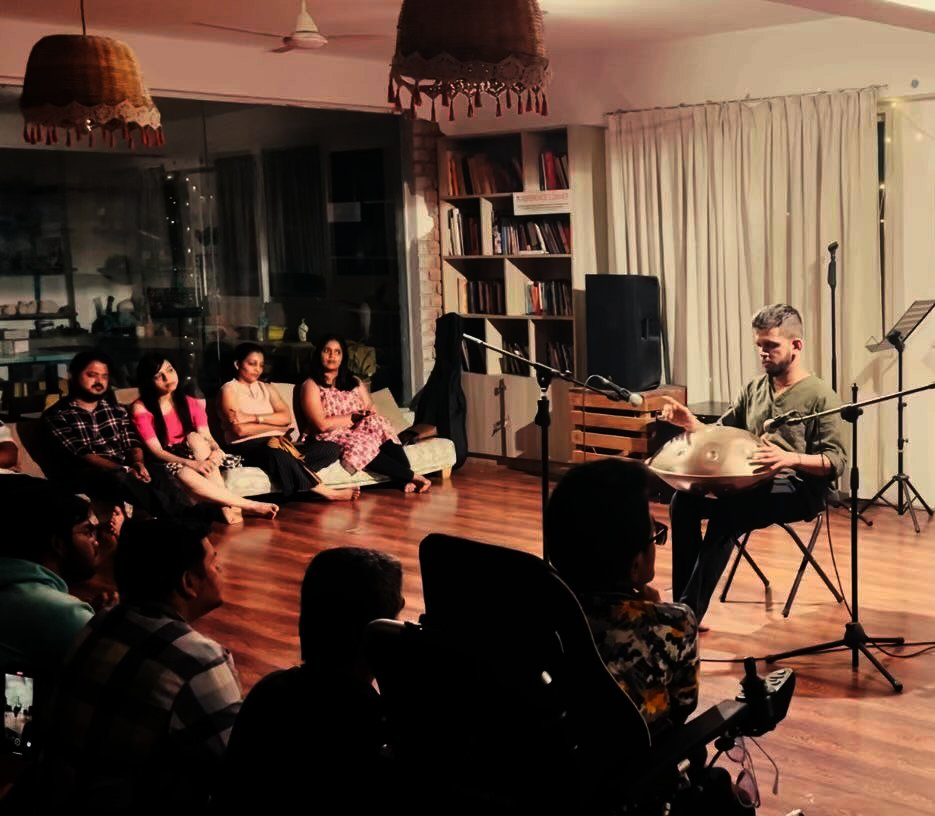
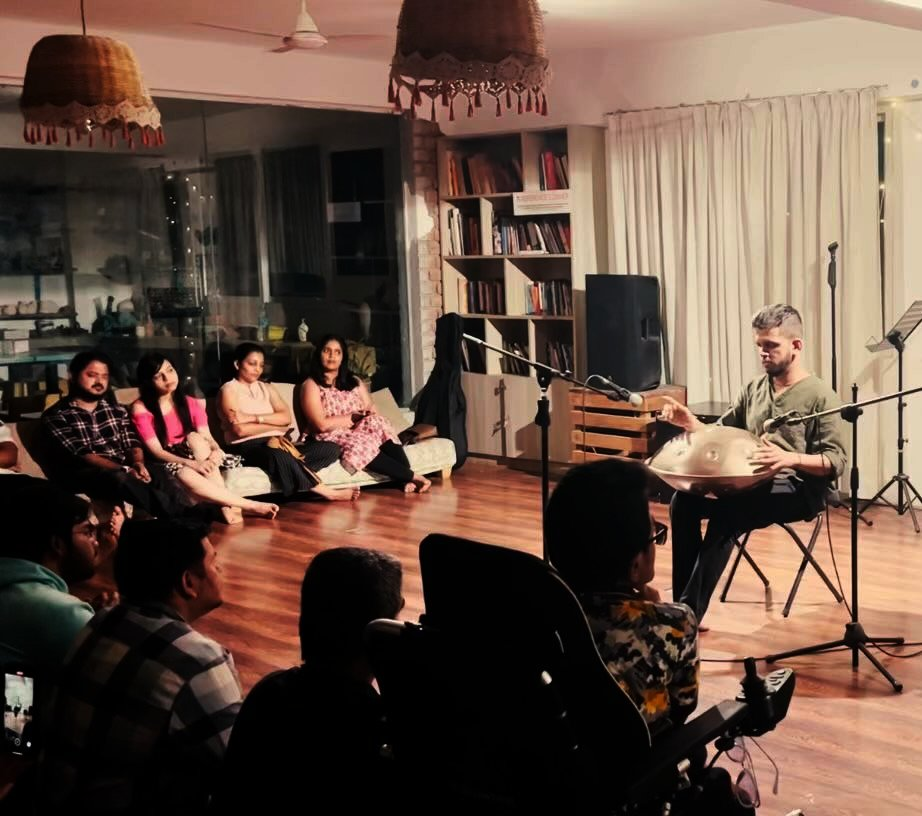
Add files via upload

diff --git a/pages/workshops.html b/pages/workshops.html
@@ -131,7 +131,7 @@
           <span>3 hours · Beginner</span>
         </div>
       </div>
-      <div class="wc-action">
+      <div class="wc-action" style="display:flex;flex-direction:column;gap:0.8rem;align-items:flex-end;">
         <a href="https://pages.razorpay.com/pl_SfkQigkdcKCdow/view" target="_blank" rel="noopener" class="btn-primary" style="font-size:0.72rem;padding:0.6rem 1.2rem;display:inline-block;text-decoration:none;">Book Now</a>
       </div>
     </div>
@@ -183,12 +183,16 @@
     </div>
   </div>
 
-  <!-- Workshop 1 -->
-  <div class="past-grid">
-    <div class="past-card">
-      <p class="past-date">14 March 2026 · Workshop 01</p>
-      <p class="past-title">First Touch</p>
-      <p class="past-loc">Creative Bloom, E-City, Bengaluru · 1.5 hours</p>
+  <!-- Workshop 1 with photo -->
+  <div style="display:grid;grid-template-columns:1fr 1fr;gap:3rem;align-items:center;">
+    <div>
+      <img src="../images/arpit-workshop1.png" alt="First Touch workshop — March 2026" style="width:100%;border-radius:3px;display:block;"/>
+    </div>
+    <div>
+      <p style="font-size:0.7rem;letter-spacing:0.15em;text-transform:uppercase;color:var(--clay);margin-bottom:0.8rem;">14 March 2026 · Workshop 01</p>
+      <h3 style="font-family:var(--font-display);font-size:2rem;font-weight:300;color:var(--clay-pale);margin-bottom:1rem;">First Touch</h3>
+      <p style="font-family:var(--font-display);font-size:1.05rem;font-weight:300;font-style:italic;color:rgba(240,219,200,0.7);line-height:1.85;margin-bottom:1rem;">The very first workshop — a 1.5-hour introduction to the handpan at Creative Bloom, E-City. Where it all began.</p>
+      <p style="font-size:0.82rem;color:rgba(240,219,200,0.4);">Creative Bloom, E-City, Bengaluru · 1.5 hours</p>
     </div>
   </div>
 </section>
@@ -203,9 +207,9 @@
       <a href="contact.html" class="btn-primary">Get in Touch</a>
     </div>
     <div style="display:flex;flex-direction:column;gap:1rem;">
-      <div style="background:var(--cream);border:1px solid var(--clay-pale);border-radius:3px;padding:1.2rem 1.5rem;"><p style="font-size:0.72rem;letter-spacing:0.1em;text-transform:uppercase;color:var(--clay);margin-bottom:0.3rem;">Corporate Wellness</p><p style="font-size:0.85rem;color:var(--text-mid);">Team sessions, offsites, mindfulness days</p></div>
-      <div style="background:var(--cream);border:1px solid var(--clay-pale);border-radius:3px;padding:1.2rem 1.5rem;"><p style="font-size:0.72rem;letter-spacing:0.1em;text-transform:uppercase;color:var(--clay);margin-bottom:0.3rem;">Yoga &amp; Wellness Retreats</p><p style="font-size:0.85rem;color:var(--text-mid);">Sound bath, live performance, guided session</p></div>
-      <div style="background:var(--cream);border:1px solid var(--clay-pale);border-radius:3px;padding:1.2rem 1.5rem;"><p style="font-size:0.72rem;letter-spacing:0.1em;text-transform:uppercase;color:var(--clay);margin-bottom:0.3rem;">Private Groups</p><p style="font-size:0.85rem;color:var(--text-mid);">Birthdays, small gatherings, one-on-one sessions</p></div>
+      <div style="background:var(--cream);border:1px solid var(--clay-pale);border-radius:3px;padding:1.2rem 1.5rem;"><p style="font-size:0.72rem;letter-spacing:0.1em;text-transform:uppercase;color:var(--clay);margin-bottom:0.3rem;">Gigs & Performances</p><p style="font-size:0.85rem;color:var(--text-mid);">Concerts, private events, cultural shows</p></div>
+      <div style="background:var(--cream);border:1px solid var(--clay-pale);border-radius:3px;padding:1.2rem 1.5rem;"><p style="font-size:0.72rem;letter-spacing:0.1em;text-transform:uppercase;color:var(--clay);margin-bottom:0.3rem;">Custom Workshops</p><p style="font-size:0.85rem;color:var(--text-mid);">Group sessions at your venue or event</p></div>
+      <div style="background:var(--cream);border:1px solid var(--clay-pale);border-radius:3px;padding:1.2rem 1.5rem;"><p style="font-size:0.72rem;letter-spacing:0.1em;text-transform:uppercase;color:var(--clay);margin-bottom:0.3rem;">Collaborations</p><p style="font-size:0.85rem;color:var(--text-mid);">With musicians, artists, or organisations</p></div>
     </div>
   </div>
 </section>

diff --git a/index.html b/index.html
@@ -295,14 +295,12 @@
   </div>
   <div class="hero-right" style="position:relative;overflow:hidden;">
     <img src="images/arpit-sunset.jpg" alt="Arpit Pandey playing handpan at sunset" style="width:100%;height:100%;object-fit:cover;object-position:center;display:block;"/>
-    <div style="position:absolute;inset:0;background:linear-gradient(to right, var(--cream) 0%, transparent 25%);"></div>
   </div>
 </section>
 
 <!-- INTRO -->
-<section class="intro-band">
-  <p class="intro-label">The<br/>Artist</p>
-  <div class="intro-body">
+<section class="intro-band" style="display:block;padding:4rem;">
+  <div class="intro-body" style="max-width:720px;">
     <p>Arpit Pandey is a handpan artist based in Bengaluru, drawn to the instrument for its rare ability to hold both melody and meditation in the same breath.</p>
     <p>He performs, records, and teaches — carrying everything he has learned into every session, workshop, and note.</p>
     <a href="pages/about.html" class="btn-ghost" style="color:var(--clay-light);border-color:rgba(193,127,82,0.3);">Read full story →</a>

diff --git a/pages/classes.html b/pages/classes.html
@@ -185,7 +185,7 @@
           <div class="lesson-item"><span class="lesson-name">Months 5–6 — Improvisation, composition, personal repertoire</span></div>
         </div>
         <div style="margin:1.5rem 0;padding:1rem;background:rgba(193,127,82,0.12);border-radius:3px;">
-          <p style="font-size:0.85rem;color:var(--clay-pale);line-height:1.6;">By the end you'll have your own piece, a stronger improvisational voice, and the confidence to play in front of others.</p>
+          <p style="font-size:0.85rem;color:var(--clay-pale);line-height:1.6;opacity:1;">By the end you'll have your own piece, a stronger improvisational voice, and the confidence to play in front of others.</p>
         </div>
         <a href="contact.html" class="btn-enroll-lg" style="display:block;text-align:center;text-decoration:none;">Enquire Now</a>
       </div>
